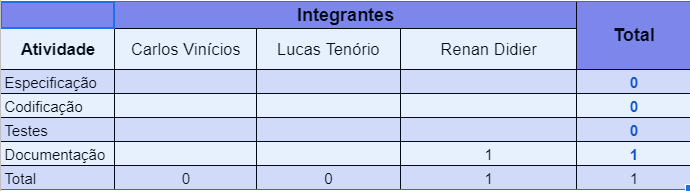
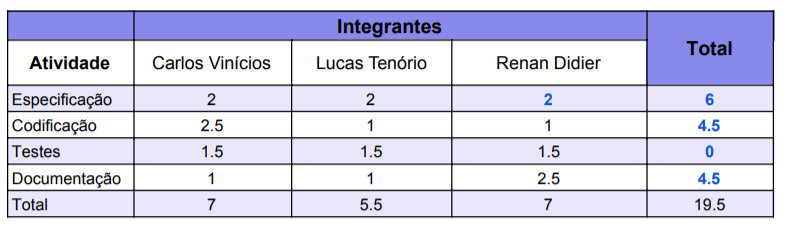
Update README.md and working hours

diff --git a/README.md b/README.md
@@ -18,6 +18,15 @@
 - [Métodos da classe Vertice](#Métodos-da-classe-Vertice)  
 - [Métodos da classe Edge](#Métodos-da-classe-Edge)  
 
+
+[Algotitmo de Dijkstra](#Algotitmo-de-Dijkstra)  
+- [Como Funciona e complexidade Temporal](#Como-Funciona?)  
+- [Pseudocódigo](#Pseudocódigo)  
+
+
+[Banco de horas](#Banco-de-horas)  
+ 
+
 ![](https://raw.githubusercontent.com/andreasbm/readme/master/assets/lines/colored.png)
 
 # **Intro**
@@ -126,7 +135,14 @@ Após instaciada a classe Graph é possível dar um nome para os vértices e are
 - **get_edge_value_by_edge(tuple edge_tuple):**
     - **Parâmetros:**  
         - edge_tuple: Tupla que contém os dois vertices que definem a aresta.
-    - **Descrição:** Retorna o valor da aresta.
+    - **Descrição:** Retorna o valor da aresta.  
+
+- **distance_dj(string start, string end=None):**
+    - **Parâmetros:**  
+        - start: Nome do vértice de origem.  
+        - end: Nome do vértice de destino.  
+    - **Descrição:** Retorna o valor da manor distância entre os dois vértices.  
+
 
 ![](https://raw.githubusercontent.com/andreasbm/readme/master/assets/lines/colored.png)
 
@@ -184,6 +200,53 @@ Após instaciada a classe Graph é possível dar um nome para os vértices e are
         - value: valor que vai ser atribuido a aresta
     
     - **Descrição:** Define um novo valor para a aresta.
+
+
+![](https://raw.githubusercontent.com/andreasbm/readme/master/assets/lines/colored.png)
+
+
+# **Algotitmo de Dijkstra**  
+
+Algoritmo criado como solução para o problema do menor caminho, calculando a menor distância de um ponto para todos os outros existentes no grafo.  
+
+## Como Funciona?  
+
+O algoritmo de Dijkstra identifica, a partir de um nó O, qual é o custo mínimo entre esse nó e todos os outros do grafo. No início, o conjunto S contém somente esse nó. A cada passo, selecionamos no conjunto de nós sobrando, o que está mais perto da origem. Depois atualizamos, para cada nó que está sobrando, a sua distância em relação à origem. Se passando pelo novo nó acrescentado, a distância ficar menor, é essa nova distância que será memorizada (O calculo da distancia é feito somando o valor do nó + o valor da aresta).  
+Escolhido um nó como origem da busca, este algoritmo calcula, então, o custo mínimo
+deste nó para todos os demais nós do grafo. O procedimento é iterativo,
+determinando, na iteração 1, o nó mais próximo do nó O, na segunda iteração, o
+segundo nó mais próximo do nó O, e assim sucessivamente, até que em alguma
+iteração todos os n sós sejam atingidos.  
+A sua complexidade temporal varia de acordo com a implementação, porém é concenso geral que em média é de **O(V2)**, onde V é o numero de vértices no grafo.  
+
+## Pseudocódigo  
+
+```
+lista_ordem = [];
+lista_ordem.append(vertice de origem);
+Vértice_de_origem = 0;
+
+while(lista_ordem != []):
+	actual_vert = lista_ordem[0];
+
+	Vertices_conectados = lista com os vertices conectados ao vertice atual;
+
+	Loop(Vertices_conectados):
+
+		val_vert = valor do vértice atual;
+		targeted_vert_val = valor do vértice desejado;
+		edge_val = distância para novo vértice;
+		targeted_vert = nome do vertice desejado;
+		lista_ordem.append(targeted_vert)
+
+		if(val_vert + edge_val < targeted_vert_val  || targeted_vert_val  == None):
+			targeted_vert_val = val_vert + edge_val;
+
+	lista_ordem.pop(0) #remover primeiro elemento da lista para não entrar em loop infinito; 
+```
+
+
+![](https://raw.githubusercontent.com/andreasbm/readme/master/assets/lines/colored.png)
 
 
 # **Banco de horas**  
